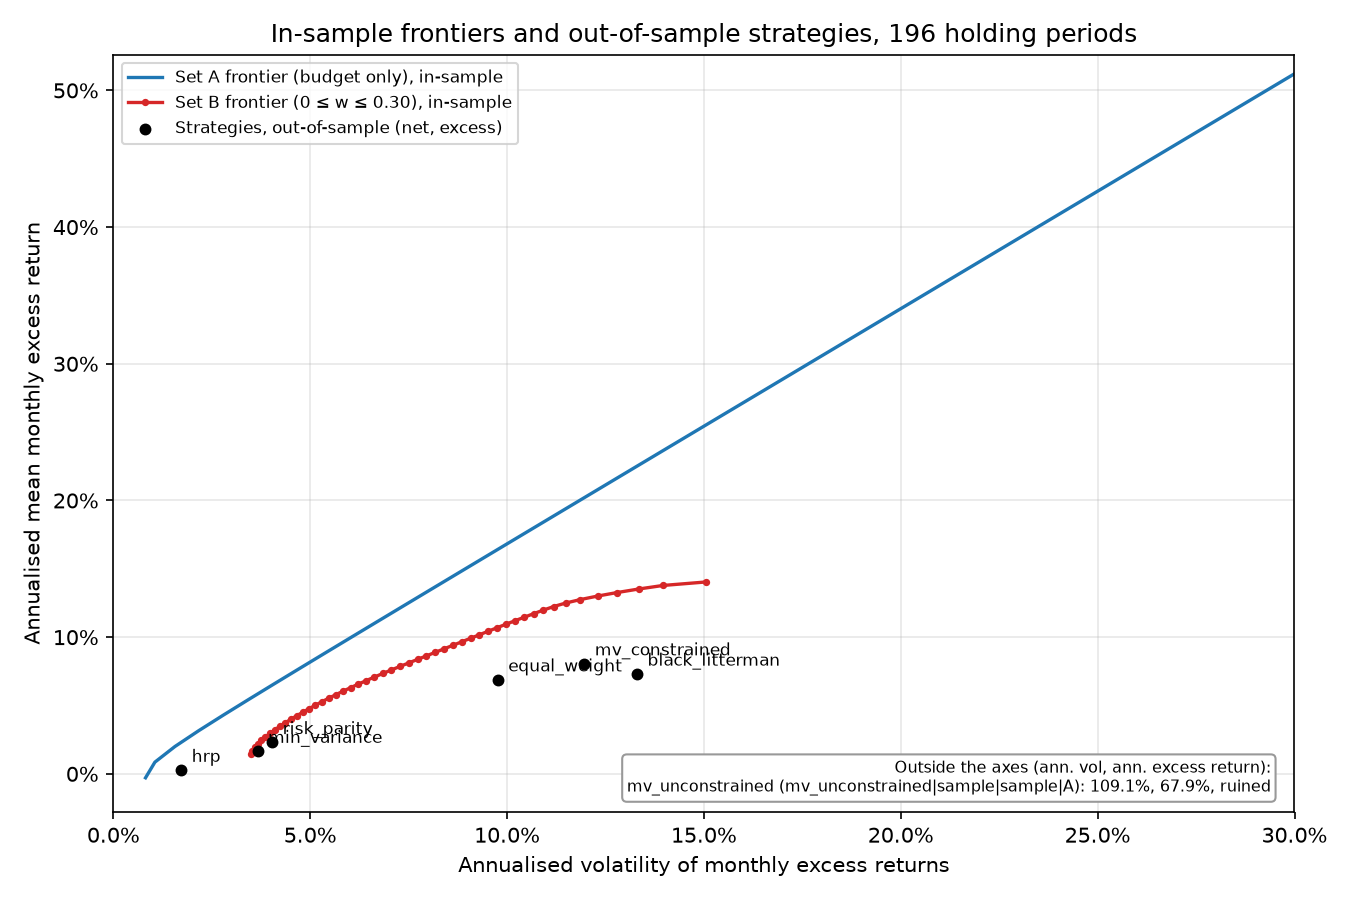
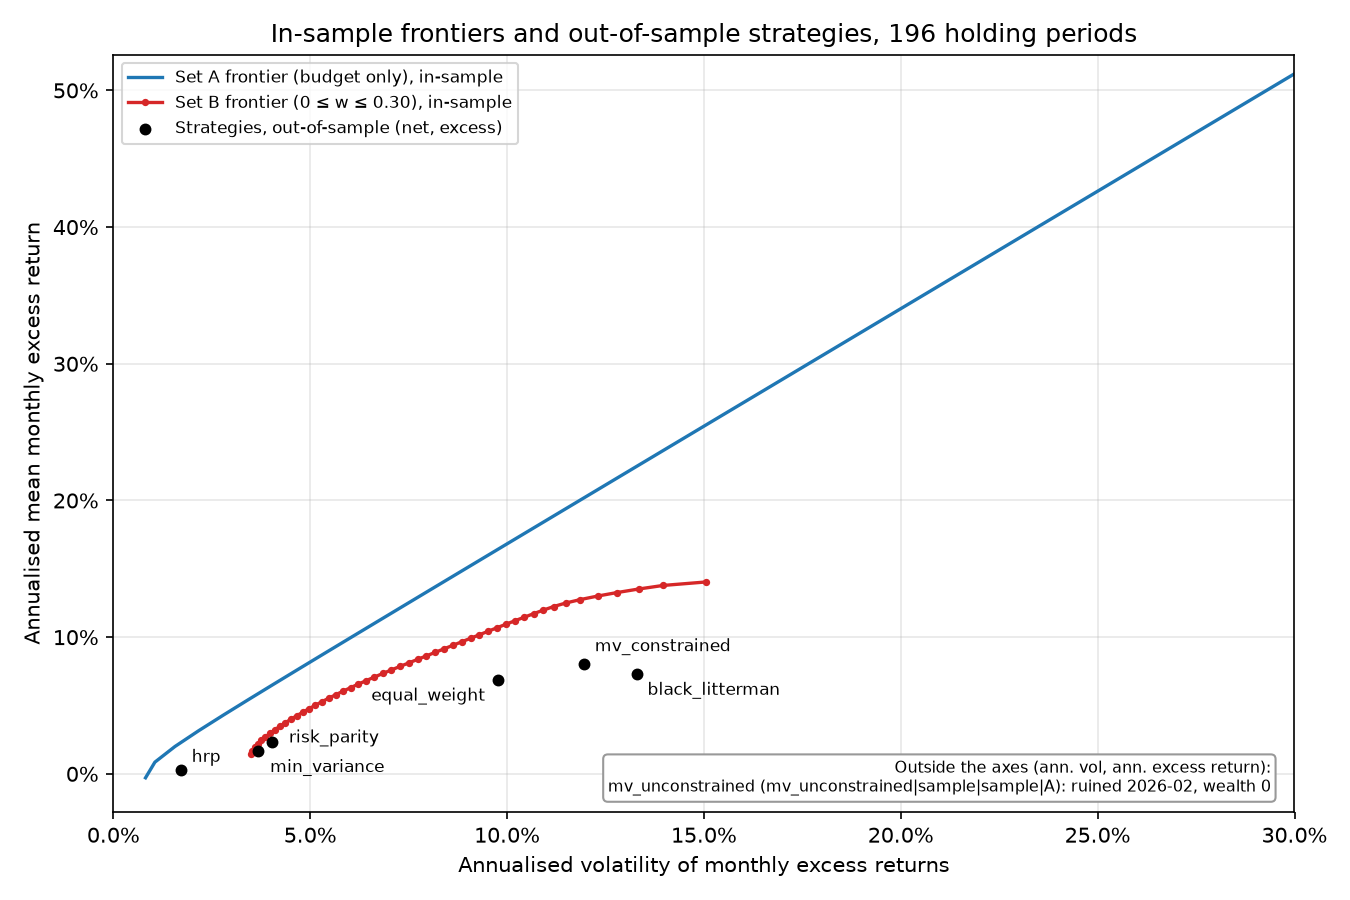
section 5: reviewer decisions for section 4

diff --git a/pc/charts.py b/pc/charts.py
@@ -21,7 +21,7 @@ from pc.config import Config  # noqa: E402
 from pc.data import load_prices, load_rf_daily  # noqa: E402
 from pc.returns import holding_returns, holding_rf  # noqa: E402
 from pc.solver import solve, symmetrise  # noqa: E402
-from pc.stats import PRIMARY_IDS, SHARPE_DDOF  # noqa: E402
+from pc.stats import PRIMARY_IDS, SHARPE_DDOF, ruin_month  # noqa: E402
 
 DPI = 150  # kickoff Section 6: figures at 150 dpi
 MONTHS_PER_YEAR = 12
@@ -34,6 +34,17 @@ X_MAX = 0.30
 # Margin added above and below the y data range, as a fraction of that range (presentation only).
 Y_PAD = 0.05
 CHART2_IDS = ["mv_constrained|lw_cc|sample|C", "risk_parity|ewma|none|none"]
+# Instruction 05, step 5.0.b: a fixed label offset (dx, dy) in points per allocator, chosen so no
+# 2 labels overlap. A negative dx right-aligns the label so it sits left of its point.
+LABEL_OFFSETS = {
+    "mv_unconstrained": (5, 4),
+    "mv_constrained": (5, 6),
+    "min_variance": (6, -10),
+    "risk_parity": (8, 0),
+    "black_litterman": (5, -10),
+    "hrp": (5, 4),
+    "equal_weight": (-6, -10),
+}
 
 
 def holding_excess(prices: pd.DataFrame, rf_daily: pd.Series, cfg: Config) -> pd.DataFrame:
@@ -93,7 +104,8 @@ def frontier_set_b(mu: pd.Series, Sigma: pd.DataFrame, cfg: Config) -> pd.DataFr
 
 
 def strategy_points(periods: pd.DataFrame, ids: list[str]) -> pd.DataFrame:
-    """x = std(excess_net) sqrt(12), y = mean(excess_net) x 12, over the months with a return."""
+    """x = std(excess_net) sqrt(12), y = mean(excess_net) x 12, over the months with a return.
+    ruin_month is the month of the ruin decision date (NaN if never ruined)."""
     rows = []
     for sid in ids:
         p = periods[periods["strategy_id"] == sid]
@@ -104,6 +116,7 @@ def strategy_points(periods: pd.DataFrame, ids: list[str]) -> pd.DataFrame:
             "ann_vol": float(np.std(x, ddof=SHARPE_DDOF) * np.sqrt(MONTHS_PER_YEAR)),
             "ann_excess": float(x.mean() * MONTHS_PER_YEAR),
             "ruined": bool(p["ruined"].any()),
+            "ruin_month": ruin_month(p),
         })
     return pd.DataFrame(rows)
 
@@ -124,15 +137,41 @@ def outside_axes(points: pd.DataFrame, ylim: tuple[float, float]) -> pd.DataFram
 
 
 def outside_text(outside: pd.DataFrame) -> str:
+    """One line per point outside the axes. A ruined strategy shows its ruin month and wealth 0 in
+    place of its mean and vol (instruction 05, step 5.0.b)."""
     lines = ["Outside the axes (ann. vol, ann. excess return):"]
     for row in outside.itertuples():
-        flag = ", ruined" if row.ruined else ""
-        lines.append(f"{row.label} ({row.strategy_id}): {row.ann_vol:.1%}, {row.ann_excess:.1%}{flag}")
+        if row.ruined:
+            lines.append(f"{row.label} ({row.strategy_id}): ruined {row.ruin_month}, wealth 0")
+        else:
+            lines.append(f"{row.label} ({row.strategy_id}): {row.ann_vol:.1%}, {row.ann_excess:.1%}")
     return "\n".join(lines)
 
 
-def plot_frontier(front_a: pd.DataFrame, front_b: pd.DataFrame, points: pd.DataFrame, path: Path) -> str:
-    """Chart 1. Returns the text box contents ("" when every point is inside the axes)."""
+def label_offset(label: str) -> tuple[tuple[float, float], str]:
+    """(offset in points, horizontal alignment) for one allocator's label; a label that is not an
+    allocator (synthetic test points) takes the mv_unconstrained offset."""
+    dx, dy = LABEL_OFFSETS.get(label, LABEL_OFFSETS["mv_unconstrained"])
+    return (dx, dy), "right" if dx < 0 else "left"
+
+
+def overlapping_labels(boxes: dict[str, tuple[float, float, float, float]]) -> list[tuple[str, str]]:
+    """Pairs of labels whose rendered boxes (x0, y0, x1, y1, display units) intersect."""
+    names = list(boxes)
+    out = []
+    for i, a in enumerate(names):
+        for b in names[i + 1:]:
+            ax0, ay0, ax1, ay1 = boxes[a]
+            bx0, by0, bx1, by1 = boxes[b]
+            if ax0 < bx1 and bx0 < ax1 and ay0 < by1 and by0 < ay1:
+                out.append((a, b))
+    return out
+
+
+def plot_frontier(front_a: pd.DataFrame, front_b: pd.DataFrame, points: pd.DataFrame, path: Path,
+                  boxes: dict | None = None) -> str:
+    """Chart 1. Returns the text box contents ("" when every point is inside the axes). When boxes
+    is a dict it is filled with each label's rendered box (x0, y0, x1, y1) in display units."""
     ylim = y_limits(front_a, front_b, points)
     fig, ax = plt.subplots(figsize=(9, 6))
     ax.plot(front_a["vol"], front_a["target_return"], color="#1f77b4", lw=1.6,
@@ -142,8 +181,11 @@ def plot_frontier(front_a: pd.DataFrame, front_b: pd.DataFrame, points: pd.DataF
     inside = points[points["ann_vol"].between(0, X_MAX) & points["ann_excess"].between(*ylim)]
     ax.scatter(inside["ann_vol"], inside["ann_excess"], color="black", zorder=3, s=22,
                label="Strategies, out-of-sample (net, excess)")
+    labels = {}
     for row in inside.itertuples():
-        ax.annotate(row.label, (row.ann_vol, row.ann_excess), xytext=(5, 4), textcoords="offset points", fontsize=8)
+        offset, ha = label_offset(row.label)
+        labels[row.label] = ax.annotate(row.label, (row.ann_vol, row.ann_excess), xytext=offset,
+                                        textcoords="offset points", ha=ha, fontsize=8)
     text = ""
     outside = outside_axes(points, ylim)
     if len(outside):
@@ -161,6 +203,10 @@ def plot_frontier(front_a: pd.DataFrame, front_b: pd.DataFrame, points: pd.DataF
     ax.legend(loc="upper left", fontsize=8)
     fig.tight_layout()
     fig.savefig(path, dpi=DPI)
+    if boxes is not None:
+        renderer = fig.canvas.get_renderer()
+        for name, ann in labels.items():
+            boxes[name] = tuple(ann.get_window_extent(renderer).extents)
     plt.close(fig)
     return text
 
@@ -195,8 +241,10 @@ def write_charts(cfg: Config) -> dict:
     periods = pd.read_parquet(results / "periods.parquet")
     points = strategy_points(periods, PRIMARY_IDS)
     figures = Path(cfg.outputs.figures_dir)
-    text = plot_frontier(front_a, front_b, points, figures / "frontier_vs_oos.png")
+    boxes = {}
+    text = plot_frontier(front_a, front_b, points, figures / "frontier_vs_oos.png", boxes)
     plot_weights_stacked(pd.read_parquet(results / "weights_long.parquet"), CHART2_IDS,
                          list(cfg.universe.tickers), figures / "weights_stacked.png")
-    return {"mu": mu, "front_a": front_a, "front_b": front_b, "points": points, "text_box": text,
-            "ylim": y_limits(front_a, front_b, points)}
+    return {"mu": mu, "Sigma": Sigma, "front_a": front_a, "front_b": front_b, "points": points,
+            "text_box": text, "ylim": y_limits(front_a, front_b, points), "label_boxes": boxes,
+            "label_overlaps": overlapping_labels(boxes)}

diff --git a/pc/stats.py b/pc/stats.py
@@ -35,11 +35,11 @@ def stationary_bootstrap_indices(n: int, mean_block: float, reps: int, seed: int
 
 MONTHS_PER_YEAR = 12
 # Kickoff 5.8 gives ddof 1 for annualised vol and no ddof for the Sharpe std; the Sharpe ratio
-# uses ddof 1 too (decisions/OPEN.md, item 6, implemented as option 1).
+# uses ddof 1 too (decisions/section_5_review.md, 1: open decision 6, option 1).
 SHARPE_DDOF = 1
 
 METRIC_COLUMNS = [
-    "strategy_id", "n_months", "ruined", "ann_return", "ann_vol", "sharpe", "max_dd",
+    "strategy_id", "n_months", "ruined", "ruin_month", "ann_return", "ann_vol", "sharpe", "max_dd",
     "forecast_vol_ann", "fcst_realised_ratio", "mean_turnover", "mean_positions",
     "scs_retries", "fallbacks", "rp_not_converged", "ridged_months",
 ]
@@ -56,13 +56,20 @@ def max_drawdown(r_net: np.ndarray) -> float:
     return float(np.min(wealth / np.maximum.accumulate(wealth) - 1))
 
 
+def ruin_month(p: pd.DataFrame) -> str | float:
+    """The month (YYYY-MM) of the first ruined decision date of one strategy; NaN if never ruined."""
+    ruined = p.loc[p["ruined"].astype(bool), "decision_date"]
+    return pd.Timestamp(ruined.min()).strftime("%Y-%m") if len(ruined) else math.nan
+
+
 def strategy_metrics(periods: pd.DataFrame) -> pd.DataFrame:
     """One row per strategy, in order of first appearance in periods.
 
     The wealth path is every month with a ret_net, the ruin month included (amendment 4.2.8),
-    so a ruined strategy has wealth 0, ann_return -1 and max_dd -1. mean_turnover skips the
-    first period (NaN). scs_retries counts "SCS" in every solver string; fallbacks,
-    rp_not_converged and ridged_months (ridge > 0) count months.
+    so a ruined strategy has wealth 0, ann_return -1 and max_dd -1. A ruined strategy's
+    Sharpe is NaN (decisions/section_5_review.md, 2), and ruin_month is the month of its ruin
+    decision date. mean_turnover skips the first period (NaN). scs_retries counts "SCS" in
+    every solver string; fallbacks, rp_not_converged and ridged_months (ridge > 0) count months.
     """
     rows = []
     for sid, p in periods.groupby("strategy_id", sort=False):
@@ -71,13 +78,15 @@ def strategy_metrics(periods: pd.DataFrame) -> pd.DataFrame:
         n = len(r)
         ann_vol = float(np.std(r, ddof=1) * np.sqrt(MONTHS_PER_YEAR))
         fcst = float(live["forecast_vol_ann"].mean())
+        is_ruined = bool(p["ruined"].any())
         rows.append({
             "strategy_id": sid,
             "n_months": n,
-            "ruined": bool(p["ruined"].any()),
+            "ruined": is_ruined,
+            "ruin_month": ruin_month(p),
             "ann_return": float(np.prod(1 + r) ** (MONTHS_PER_YEAR / n) - 1),
             "ann_vol": ann_vol,
-            "sharpe": sharpe(live["excess_net"].to_numpy(dtype=float)),
+            "sharpe": math.nan if is_ruined else sharpe(live["excess_net"].to_numpy(dtype=float)),
             "max_dd": max_drawdown(r),
             "forecast_vol_ann": fcst,
             "fcst_realised_ratio": fcst / ann_vol,
@@ -135,9 +144,9 @@ def sharpe_intervals(periods: pd.DataFrame, idx: np.ndarray, benchmarks: list[st
     Every strategy is resampled on the same index paths idx (reps x n, n = months per
     strategy), so a difference is taken path by path. Percentiles are np.quantile at
     (p05, p95) = bootstrap.ci with numpy's default rule (decisions/section_2_review.md, 1).
-    frac_le_0 is the fraction of paths whose difference is <= 0. A ruined strategy keeps its
-    point Sharpe (over the months of its wealth path, as in strategy_metrics); its interval,
-    and every difference involving it, is NaN (amendment 4.2.8).
+    frac_le_0 is the fraction of paths whose difference is <= 0. A ruined strategy's point
+    Sharpe, interval and every difference involving it are NaN (amendment 4.2.8 and
+    decisions/section_5_review.md, 2).
     """
     ci = bootstrap_config().ci
     series, ruined = {}, {}
@@ -152,7 +161,7 @@ def sharpe_intervals(periods: pd.DataFrame, idx: np.ndarray, benchmarks: list[st
             raise ValueError(f"benchmark {b!r} is not in periods")
 
     boots = {sid: None if ruined[sid] else boot_sharpe(x, idx) for sid, x in series.items()}
-    point = {sid: sharpe(x[~np.isnan(x)]) for sid, x in series.items()}
+    point = {sid: math.nan if ruined[sid] else sharpe(x) for sid, x in series.items()}
     nan = math.nan
     rows = []
     for sid in series:

diff --git a/tests/test_stats.py b/tests/test_stats.py
@@ -81,7 +81,7 @@ def test_metrics_on_synthetic_series():
     ex_mean = sum(ex) / 6
     ex_sd = math.sqrt(sum((x - ex_mean) ** 2 for x in ex) / 5)
     # Peak 1.02 * 0.99 * 1.03 after month 3, then -4%: the drawdown is exactly -0.04.
-    assert a.n_months == 6 and not a.ruined
+    assert a.n_months == 6 and not a.ruined and pd.isna(a.ruin_month)
     assert abs(a.ann_return - ann_return) <= 1e-15
     assert abs(a.ann_vol - sd * math.sqrt(12)) <= 1e-15
     assert abs(a.sharpe - ex_mean / ex_sd * math.sqrt(12)) <= 1e-12
@@ -110,8 +110,9 @@ def test_metrics_respect_ruin_truncation():
     assert m.max_dd == -1.0
     r = np.array([0.10, 0.05, -1.0])
     assert abs(m.ann_vol - np.std(r, ddof=1) * math.sqrt(12)) <= 1e-15
-    ex = r - 0.001
-    assert abs(m.sharpe - ex.mean() / np.std(ex, ddof=1) * math.sqrt(12)) <= 1e-12
+    # A ruined strategy has a NaN Sharpe and its ruin month (decisions/section_5_review.md, 2).
+    assert math.isnan(m.sharpe)
+    assert m.ruin_month == "2020-03"
     assert abs(m.mean_turnover - 0.4) <= 1e-15
     assert abs(m.mean_positions - 4.0) <= 1e-15
 
@@ -162,11 +163,11 @@ def test_sharpe_diff_against_self_is_zero(cfg):
         assert row[f"diff_vs_{b}"] == 0.0
         assert row[f"diff_p05_vs_{b}"] == 0.0 and row[f"diff_p95_vs_{b}"] == 0.0
         assert row[f"frac_le_0_vs_{b}"] == 1.0
-    # A ruined strategy gets NaN intervals (amendment 4.2.8).
+    # A ruined strategy gets a NaN point Sharpe and NaN intervals (amendment 4.2.8 and
+    # decisions/section_5_review.md, 2).
     assert out.loc["r"].ruined
-    assert out.loc["r", ["sharpe_p05", "sharpe_p95", "diff_vs_a", "diff_p05_vs_c", "frac_le_0_vs_c"]].isna().all()
-    x = np.array([0.01] * 59 + [-1.0])
-    assert abs(out.loc["r", "sharpe"] - x.mean() / x.std(ddof=1) * math.sqrt(12)) <= 1e-12
+    assert out.loc["r", ["sharpe", "sharpe_p05", "sharpe_p95", "diff_vs_a", "diff_p05_vs_c",
+                         "frac_le_0_vs_c"]].isna().all()
 
 
 def test_results_primary_rows_and_columns(cfg):

diff --git a/decisions/section_5_review.md b/decisions/section_5_review.md
@@ -1,0 +1,14 @@
+# Section 4 review decisions (session 5)
+
+From `instructions/05_section_5.md`, step 5.0.a.
+
+1. **Open decision 6: option 1, ddof 1,** the same as annualised vol. `pc.stats.SHARPE_DDOF = 1` stays as built. The item is moved out of `decisions/OPEN.md`, which is now empty.
+2. **Ruined strategies get a NaN point Sharpe as well as NaN intervals,** in `metrics_all.csv`, `sharpe_intervals.csv` and `results_primary.csv`.
+   - Reason: `mv_unconstrained|ewma|sample|A` lost everything in month 37 and showed a Sharpe of 1.15. A mean over standard deviation of monthly returns says nothing about a path that ends at 0.
+   - `ann_return` −1 and `max_dd` −1 stay, as they are the truthful figures.
+   - `ruin_month` is added to `metrics_all.csv`.
+3. **Review Deviations 9 to 15 of section 4:** accepted.
+4. **Risk parity convergence differing across platforms:** accepted. `rp_max_rc_dev` is about 6e-9 in every flagged month, so it is noise, and results may differ across operating systems at that level.
+5. **Chart 1 corrections** (step 5.0.b):
+   - Each label has a fixed offset in points, kept in a dict in `pc/charts.py` keyed by allocator, chosen so no 2 labels overlap.
+   - A ruined strategy's text box entry reads `<allocator> (<id>): ruined <YYYY-MM>, wealth 0` in place of its mean and vol.

diff --git a/decisions/OPEN.md b/decisions/OPEN.md
@@ -1,8 +1,3 @@
 # Open decisions
 
-## 6. Steps 4.3 to 4.6: ddof of the std in the Sharpe ratio and in Chart 1's x coordinate (implemented as option 1, needs confirming)
-
-Kickoff 5.8 fixes annualised vol as std(r_net, ddof=1) × √12, but writes Sharpe = mean(excess_net)/std(excess_net) × √12 with no ddof. Amendment 4.6 likewise gives Chart 1's x as std(excess_net) × √12 with no ddof. Both feed `metrics_all.csv`, `sharpe_intervals.csv` (point and bootstrap), `results_primary.csv` and Chart 1. Over 196 months the two choices differ by a factor of √(196/195) = 1.00256 on every Sharpe ratio and on every x coordinate. The bootstrap fraction ≤ 0 is unaffected, because the factor is common to all strategies on a path.
-
-- Option 1 (implemented): ddof 1, the same as annualised vol. `pc.stats.SHARPE_DDOF = 1`, used by `sharpe`, `boot_sharpe` and `pc.charts.strategy_points`.
-- Option 2: ddof 0.
+None.
